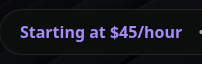
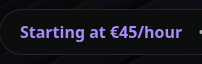
Correct public rate to €45/hour (euro; Europe)
Owner clarification: public site must use euro (€), not USD.
- Hero: Starting at €45/hour
- SEO config: €45/hour in / and /contact descriptions
- index.html: meta description, twitter:description, priceRange JSON-LD
- Tests: Updated to expect €45/hour and flag \$45/hour as leftover
- Changelog: Updated to reflect euro currency choice
- Screenshots: Refreshed to show €45/hour

Retired €80. Do not use \$ on public site.

Changed region(s): [[0.5347, 0.4062, 0.5941, 0.625]]

diff --git a/tests/qa/qa-seo-check.js b/tests/qa/qa-seo-check.js
@@ -212,48 +212,48 @@ if (indexHtml.includes('application/ld+json')) {
 
 const draftDescription = getMeta(indexHtml, 'description');
 const draftTwitter = getMeta(indexHtml, 'twitter:description');
-if (!draftDescription?.includes('$45/hour')) {
+if (!draftDescription?.includes('€45/hour')) {
   findings.push({
-    issue: `index.html meta description missing $45/hour: ${draftDescription}`,
+    issue: `index.html meta description missing €45/hour: ${draftDescription}`,
     severity: 'P1',
     ref: 'index.html',
   });
 }
-if (!draftTwitter?.includes('$45/hour')) {
+if (!draftTwitter?.includes('€45/hour')) {
   findings.push({
-    issue: `index.html twitter:description missing $45/hour: ${draftTwitter}`,
+    issue: `index.html twitter:description missing €45/hour: ${draftTwitter}`,
     severity: 'P1',
     ref: 'index.html',
   });
 }
 const priceRange = indexHtml.match(/"priceRange":\s*"([^"]+)"/)?.[1] ?? '';
-if (priceRange !== '$45/hour') {
+if (priceRange !== '€45/hour') {
   findings.push({
-    issue: `ProfessionalService priceRange is not $45/hour: ${priceRange}`,
+    issue: `ProfessionalService priceRange is not €45/hour: ${priceRange}`,
     severity: 'P1',
     ref: 'index.html',
   });
 }
 
 const seoConfig = readFileSync(path.join(process.cwd(), 'src/lib/seoConfig.js'), 'utf8');
-if (!seoConfig.includes('$45/hour')) {
+if (!seoConfig.includes('€45/hour')) {
   findings.push({
-    issue: 'seoConfig.js missing $45/hour',
+    issue: 'seoConfig.js missing €45/hour',
     severity: 'P1',
     ref: 'src/lib/seoConfig.js',
   });
 }
 
 const hero = readFileSync(path.join(process.cwd(), 'src/components/Hero.jsx'), 'utf8');
-if (!hero.includes('Starting at $45/hour')) {
+if (!hero.includes('Starting at €45/hour')) {
   findings.push({
-    issue: 'Hero.jsx missing Starting at $45/hour',
+    issue: 'Hero.jsx missing Starting at €45/hour',
     severity: 'P1',
     ref: 'src/components/Hero.jsx',
   });
 }
 
-const leftoverRate = /€80|€45\/hour/;
+const leftoverRate = /€80|\$45\/hour/;
 for (const [ref, source] of [['index.html', indexHtml], ['src/lib/seoConfig.js', seoConfig], ['src/components/Hero.jsx', hero]]) {
   if (leftoverRate.test(source)) {
     findings.push({

diff --git a/index.html b/index.html
@@ -21,7 +21,7 @@
   <title>Vivek Patel - Computer Vision & AI Engineer</title>
   <meta name="author" content="Vivek Patel" />
   <meta data-react-helmet="true" name="description"
-    content="Hire Vivek Patel - Freelance AI & Computer Vision Engineer in Europe. Expert in web scraping, n8n automation, YOLO, PyTorch, and LangChain. Production-ready AI systems. $45/hour." />
+    content="Hire Vivek Patel - Freelance AI & Computer Vision Engineer in Europe. Expert in web scraping, n8n automation, YOLO, PyTorch, and LangChain. Production-ready AI systems. €45/hour." />
   <link data-react-helmet="true" rel="canonical" href="https://www.vivekapatel.com/" />
 
   <!-- Preload hero background image for better LCP -->
@@ -46,7 +46,7 @@
   <meta data-react-helmet="true" name="twitter:url" content="https://www.vivekapatel.com/" />
   <meta data-react-helmet="true" name="twitter:title" content="Vivek Patel - Computer Vision & AI Engineer" />
   <meta data-react-helmet="true" name="twitter:description"
-    content="Freelance AI Engineer in Europe. Expert in Computer Vision, Web Scraping & n8n Automation. $45/hour." />
+    content="Freelance AI Engineer in Europe. Expert in Computer Vision, Web Scraping & n8n Automation. €45/hour." />
   <meta data-react-helmet="true" name="twitter:image" content="https://www.vivekapatel.com/og-image.png" />
 
   <!-- JSON-LD Structured Data -->
@@ -82,7 +82,7 @@
         "name": "Europe"
       },
       "serviceType": ["AI Development", "Computer Vision", "Web Scraping", "n8n Automation", "Data Extraction"],
-      "priceRange": "$45/hour"
+      "priceRange": "€45/hour"
     }
   </script>
 </head>

diff --git a/src/lib/seoConfig.js b/src/lib/seoConfig.js
@@ -7,7 +7,7 @@ export const DEFAULT_OG_IMAGE_PATH = '/og-image.png';
 export const defaultSeo = {
   title: 'Vivek Patel - Expert AI & Computer Vision Engineer',
   description:
-    'Hire Vivek Patel - Freelance AI & Computer Vision Engineer in Europe. Expert in web scraping, n8n automation, YOLO, PyTorch, and LangChain. 94% performance improvements. $45/hour.',
+    'Hire Vivek Patel - Freelance AI & Computer Vision Engineer in Europe. Expert in web scraping, n8n automation, YOLO, PyTorch, and LangChain. 94% performance improvements. €45/hour.',
   keywords:
     'Vivek Patel, AI Engineer Europe, Computer Vision Freelancer, n8n Automation, Web Scraping Expert, YOLO, PyTorch, LangChain, Data Extraction, Python Developer Europe',
   path: '/',
@@ -38,7 +38,7 @@ export const routeSeo = {
   '/contact': {
     title: 'Contact | Vivek Patel, AI & Computer Vision Engineer',
     description:
-      'Hire Vivek Patel for your AI project. Freelance Computer Vision, Web Scraping & n8n Automation expert based in Europe. Get a quote within 24 hours. $45/hour.',
+      'Hire Vivek Patel for your AI project. Freelance Computer Vision, Web Scraping & n8n Automation expert based in Europe. Get a quote within 24 hours. €45/hour.',
     keywords:
       'Hire AI Engineer Europe, Computer Vision Freelancer, n8n Developer, Web Scraping Expert, Project Quote, LangChain Developer, YOLO Expert',
     path: '/contact',

diff --git a/src/components/Hero.jsx b/src/components/Hero.jsx
@@ -83,7 +83,7 @@ const Hero = () => {
             className="flex flex-col items-center gap-3 mb-10"
           >
             <div className="inline-flex items-center gap-4 px-5 py-2.5 bg-[#0C0D0D] border border-white/10 rounded-full">
-              <span className="text-accent-purple-text font-semibold">Starting at $45/hour</span>
+              <span className="text-accent-purple-text font-semibold">Starting at €45/hour</span>
               <span className="text-gray-400">•</span>
               <span className="text-gray-300">Based in Europe</span>
             </div>

diff --git a/tests/qa/qa-a11y.spec.js b/tests/qa/qa-a11y.spec.js
@@ -122,7 +122,7 @@ test('normal-size purple text and links meet contrast in rendered states', async
     localStorage.setItem('cookie_consent_preferences', JSON.stringify({ necessary: true, analytics: false }));
   });
   await page.goto('/');
-  const price = page.getByText('Starting at $45/hour', { exact: true });
+  const price = page.getByText('Starting at €45/hour', { exact: true });
   const priceBackground = await price.evaluate((element) => {
     const badge = element.parentElement;
     const style = badge ? getComputedStyle(badge) : null;

diff --git a/docs/changelog.md b/docs/changelog.md
@@ -8,7 +8,7 @@ and this project adheres to [Semantic Versioning](https://semver.org/spec/v2.0.0
 ## [Unreleased]
 
 ### Changed
-- Homepage, meta, and JSON-LD now show Starting at $45/hour (matching live Upwork profile).
+- Homepage, meta, and JSON-LD now show Starting at €45/hour (euro; Europe). Retired €80.
 
 ### Fixed
 - Size case-study galleries to wide workflow screenshots so n8n canvases no longer sit in a tall empty 4:3 box
